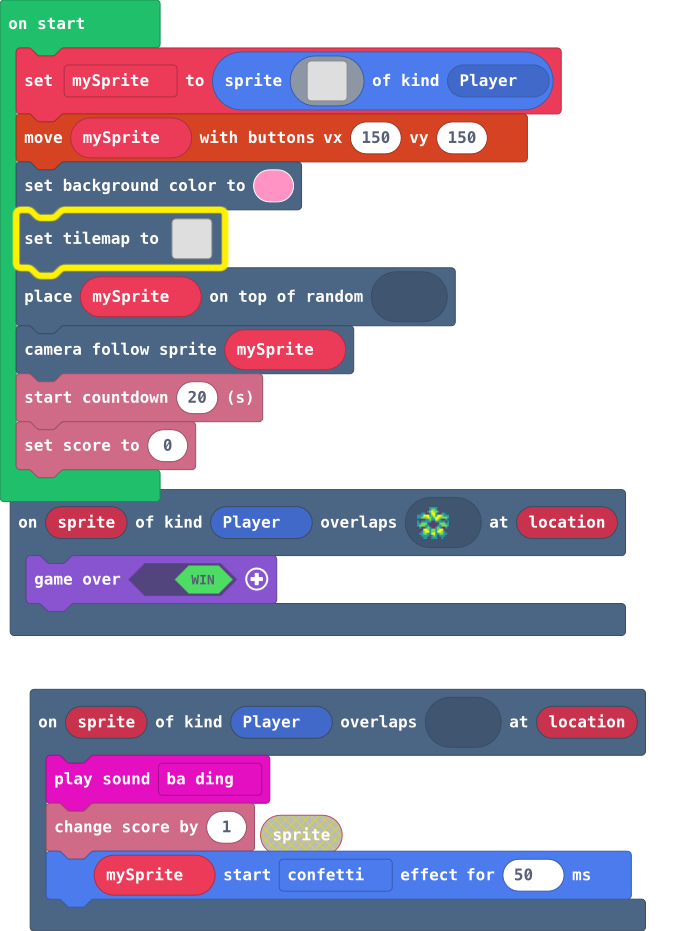
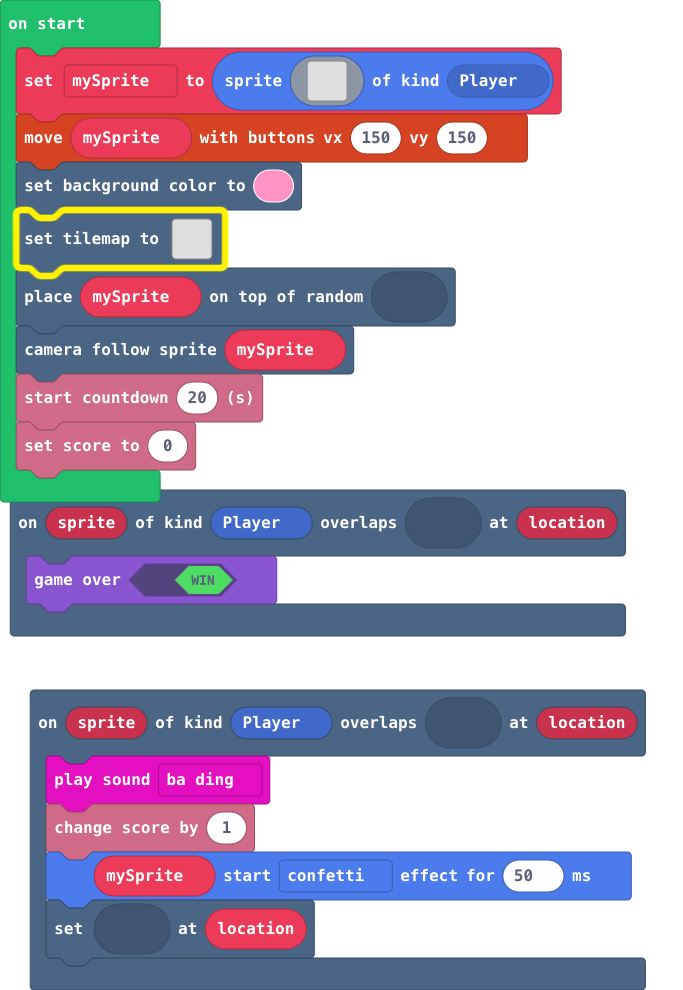
Update main.blocks, main.ts

diff --git a/main.ts b/main.ts
@@ -5,6 +5,7 @@ scene.onOverlapTile(SpriteKind.Player, sprites.dungeon.chestClosed, function (sp
     music.baDing.play()
     info.changeScoreBy(1)
     mySprite.startEffect(effects.confetti, 50)
+    tiles.setTileAt(location, myTiles.transparency16)
 })
 let mySprite: Sprite = null
 mySprite = sprites.create(img`
